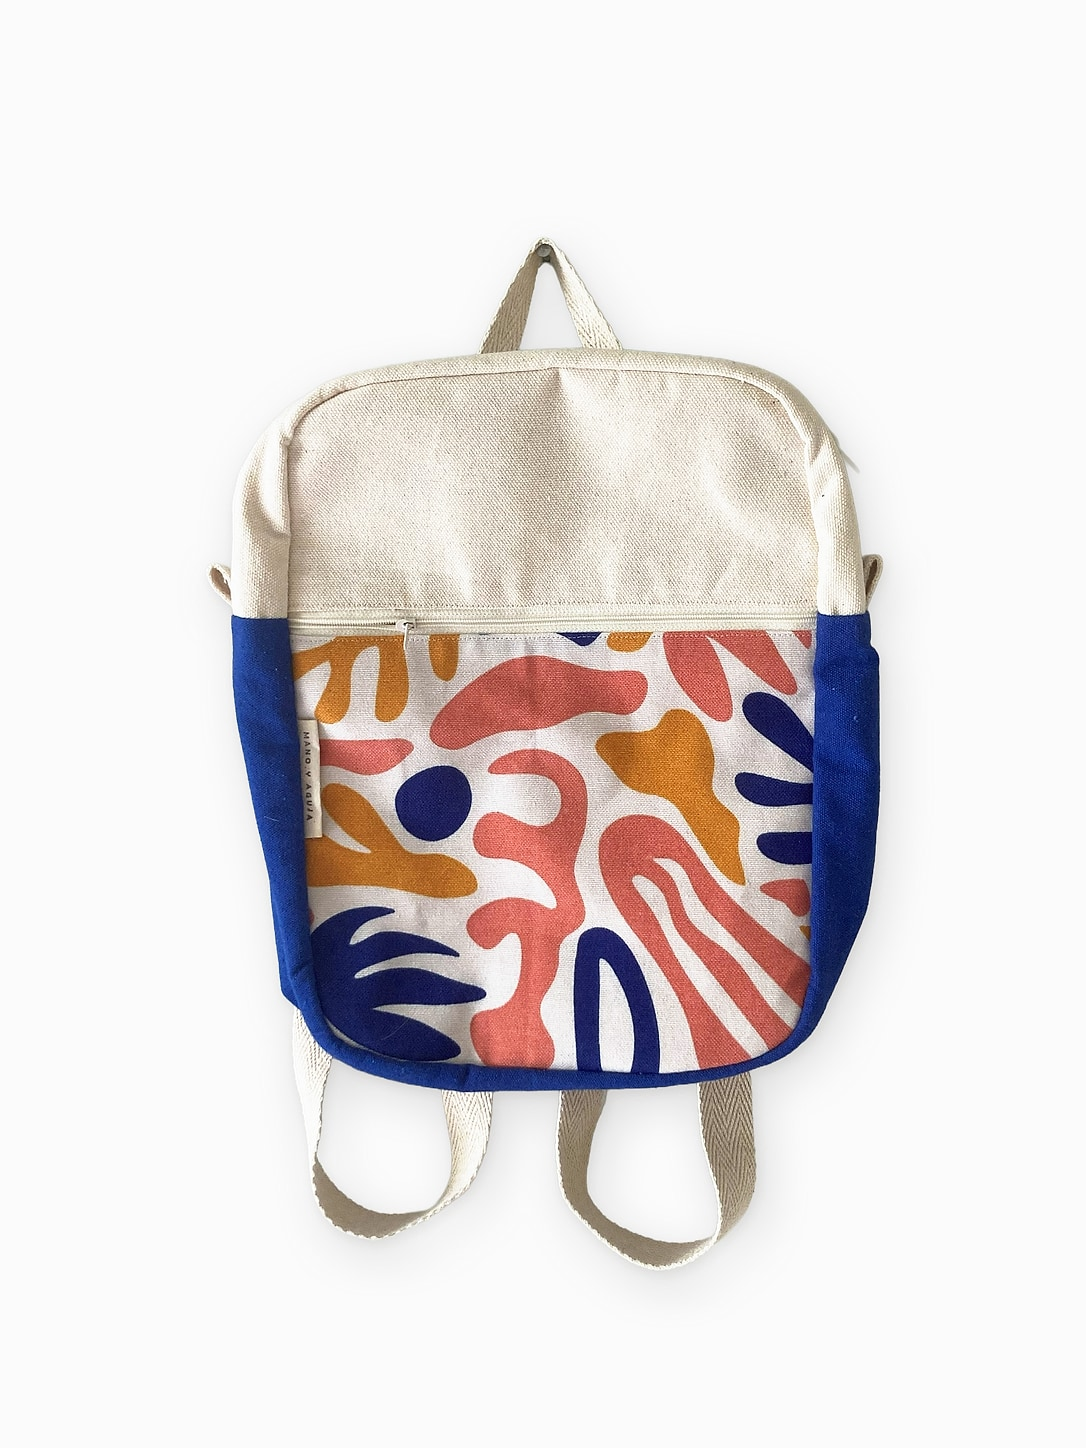
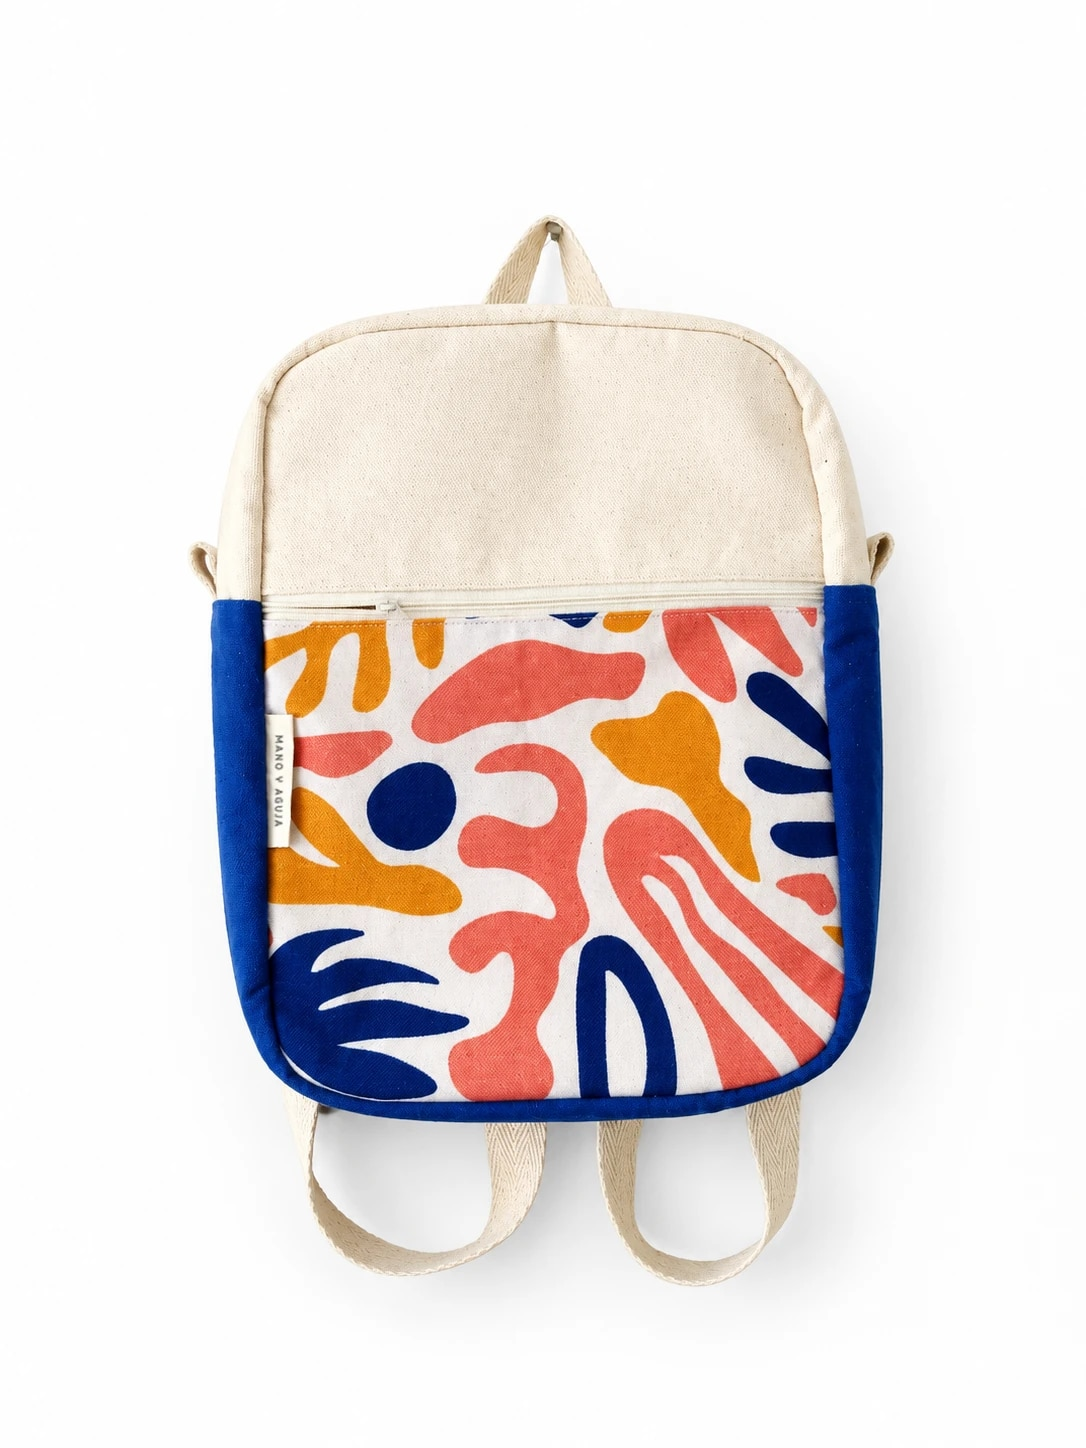
fix: fotos nuevas de Mochilas 03 y 04; fuera las del interior

Changed region(s): [[0.1519, 0.1243, 0.8508, 0.9012]]

diff --git a/productos.js b/productos.js
@@ -45,8 +45,8 @@
     // Los accesorios no llevan talla
     { id:16, name:"Mochila 01",  price:32000,           category:"Accesorios", available:true, images:["assets/mochila-01.png","assets/mochila-01a.png"] },
     { id:17, name:"Mochila 02",  price:32000,           category:"Accesorios", available:true, images:["assets/mochila-02.png","assets/mochila-02a.png"] },
-    { id:22, name:"Mochila 03",  price:32000,           category:"Accesorios", available:true, images:["assets/mochila-03.jpg","assets/mochila-03a.jpg","assets/mochila-interior-1.jpg","assets/mochila-interior-2.jpg"] },
-    { id:23, name:"Mochila 04",  price:32000,           category:"Accesorios", available:true, images:["assets/mochila-04.jpg","assets/mochila-04a.jpg","assets/mochila-interior-1.jpg","assets/mochila-interior-2.jpg"] },
+    { id:22, name:"Mochila 03",  price:32000,           category:"Accesorios", available:true, images:["assets/mochila-03.jpg","assets/mochila-03a.jpg"] },
+    { id:23, name:"Mochila 04",  price:32000,           category:"Accesorios", available:true, images:["assets/mochila-04.jpg","assets/mochila-04a.jpg"] },
     // Se vende como set: portawipes + portachupete + bolsa
     { id:24, name:"Portawipes 01", price:20000,         category:"Accesorios", available:true, incluye:"Incluye portachupete y bolsa de tela.", images:["assets/portawipes-01.jpg","assets/portawipes-01a.jpg","assets/portawipes-01b.jpg"] }
   ];
